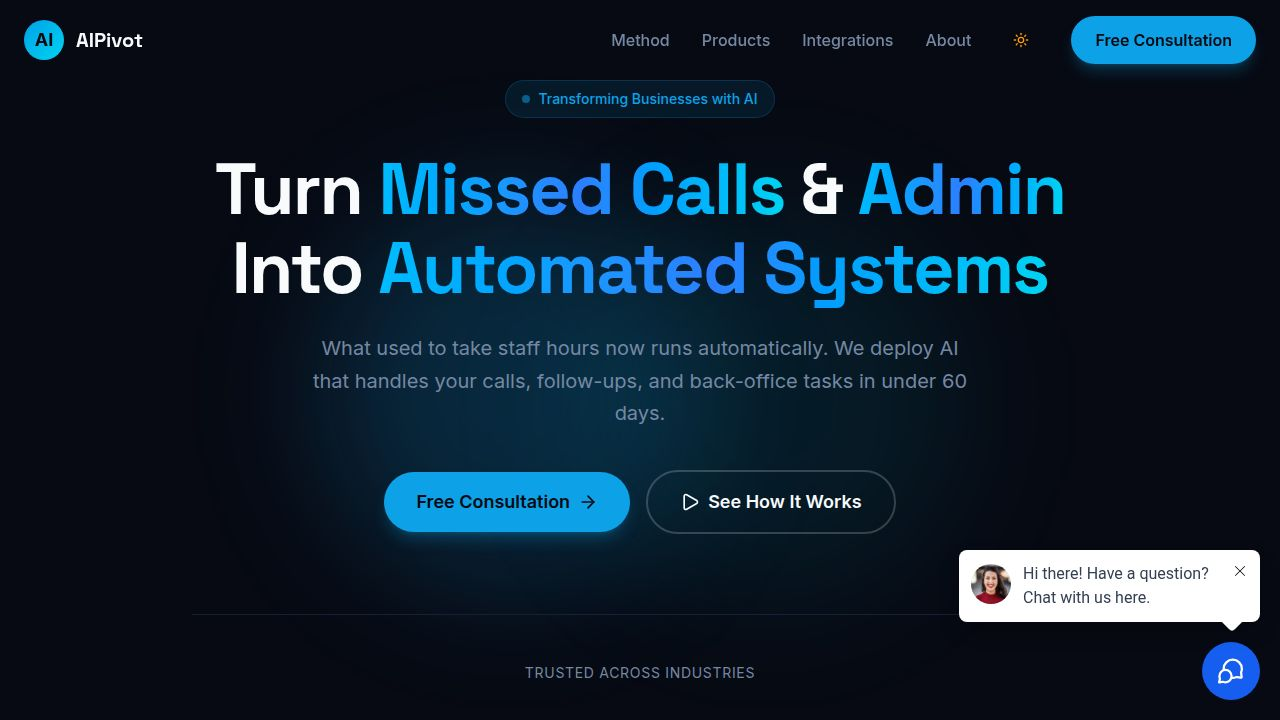
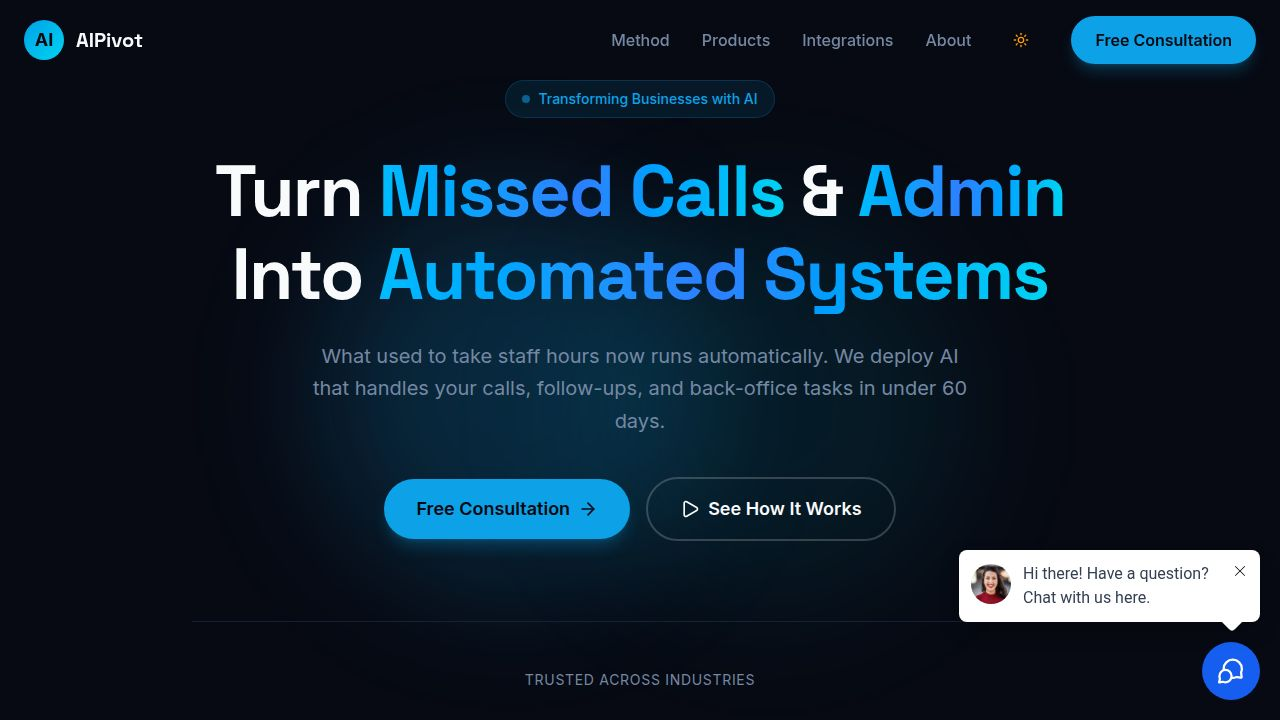
Improve mobile responsiveness for better user experience on smaller screens
Adjust text sizes and add line breaks in the Hero component to ensure proper display and readability on mobile devices.

Replit-Commit-Author: Agent
Replit-Commit-Session-Id: 616f7ec8-56b7-40ac-97c3-e25da8dbcfec
Replit-Commit-Checkpoint-Type: full_checkpoint
Replit-Commit-Event-Id: 222cbc0e-4991-48d8-b144-fa17769c0620
Replit-Commit-Screenshot-Url: https://storage.googleapis.com/screenshot-production-us-central1/a4d2e7bf-6fef-4c84-ac98-2d1d1ffe8788/616f7ec8-56b7-40ac-97c3-e25da8dbcfec/X56pvhw
Replit-Helium-Checkpoint-Created: true

diff --git a/client/src/components/sections/Hero.tsx b/client/src/components/sections/Hero.tsx
@@ -38,18 +38,19 @@ export function Hero() {
 
             <h1 
               id="hero-heading" 
-              className="text-4xl sm:text-5xl lg:text-7xl font-extrabold leading-[1.1] mb-6"
+              className="text-3xl sm:text-5xl lg:text-7xl font-extrabold leading-[1.15] mb-6 px-2 sm:px-0"
               itemProp="headline"
             >
               <span className="text-foreground">Turn </span>
               <span className="gradient-text">Missed Calls</span>
               <span className="text-foreground"> & </span>
               <span className="gradient-text">Admin</span>
+              <br className="sm:hidden" />
               <span className="text-foreground"> Into </span>
               <span className="gradient-text">Automated Systems</span>
             </h1>
 
-            <p className="text-lg sm:text-xl text-muted-foreground max-w-2xl mx-auto mb-8 sm:mb-10 leading-relaxed px-4 sm:px-0" itemProp="text">
+            <p className="text-base sm:text-xl text-muted-foreground max-w-2xl mx-auto mb-8 sm:mb-10 leading-relaxed px-4 sm:px-0" itemProp="text">
               What used to take staff hours now runs automatically. We deploy AI that handles your calls, follow-ups, and back-office tasks in under 60 days.
             </p>
 
